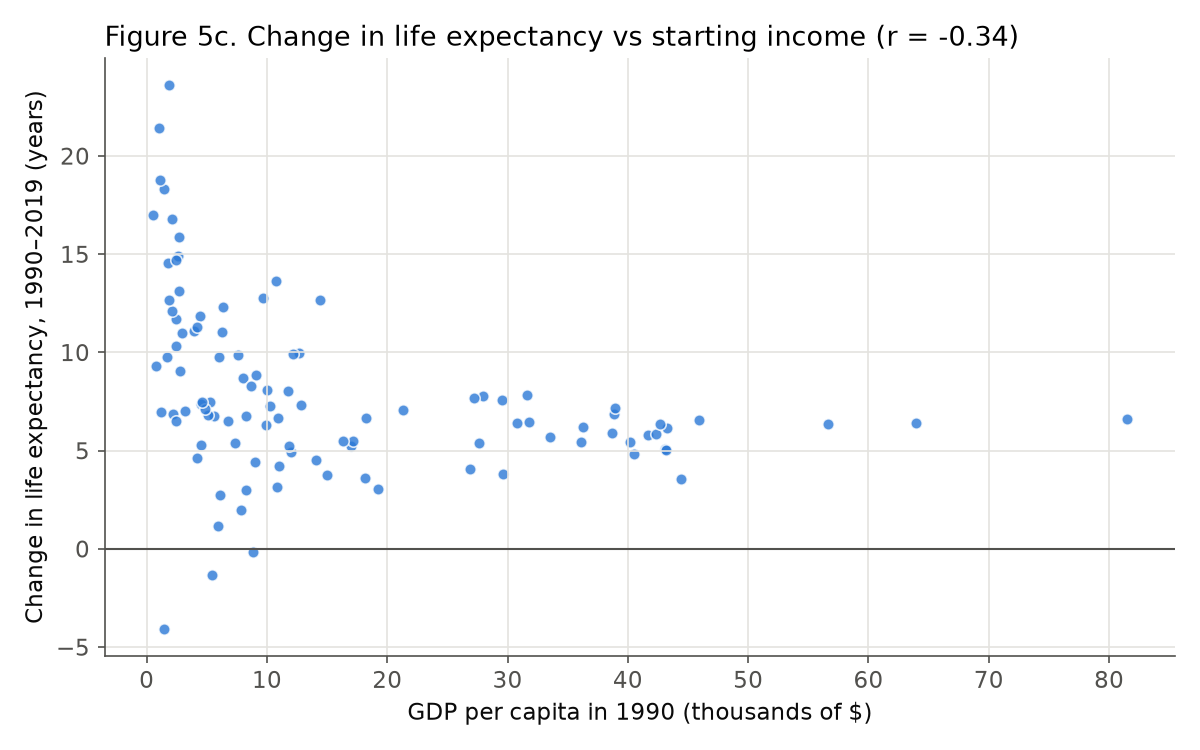
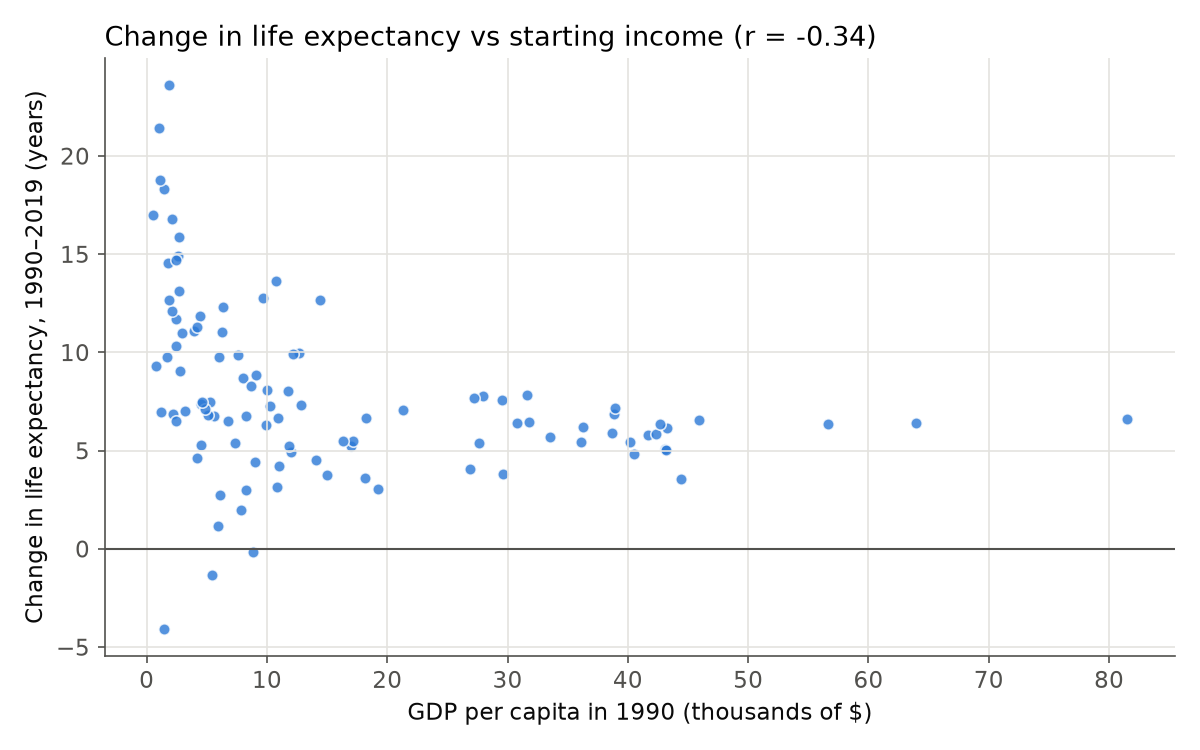
adjust chart and model titles

Changed region(s): [[0.0925, 0.0307, 0.8633, 0.0613]]

diff --git a/charts.py b/charts.py
@@ -35,7 +35,7 @@ for name, color in countries.items():
 ax.set_xlim(1990, 2025)
 ax.set_xlabel("Year")
 ax.set_ylabel("Life expectancy at birth (years)")
-ax.set_title("Figure 1. Contrasting life expectancy trajectories, 1990–2019", loc="left")
+ax.set_title("Contrasting life expectancy trajectories, 1990–2019", loc="left")
 ax.legend(frameon=False, loc="lower right")
 fig.tight_layout()
 fig.savefig("figures/fig1_trajectories.png")
@@ -56,7 +56,7 @@ ax.axhline(0, color=MUTED, linewidth=1)
 label_points(ax, "GDP1990_k", "dLE", highlight)
 ax.set_xlabel("GDP per capita in 1990 (thousands of 2021 int-$)")
 ax.set_ylabel("Change in life expectancy, 1990–2019 (years)")
-ax.set_title("Figure 2. Poorer countries gained the most life expectancy", loc="left")
+ax.set_title("Poorer countries gained the most life expectancy", loc="left")
 fig.tight_layout()
 fig.savefig("figures/fig2_gain_vs_start_income.png")
 
@@ -68,7 +68,7 @@ ax.axhline(0, color=MUTED, linewidth=1)
 label_points(ax, "LE_1990", "dLE", highlight)
 ax.set_xlabel("Life expectancy in 1990 (years)")
 ax.set_ylabel("Change in life expectancy, 1990–2019 (years)")
-ax.set_title("Figure 3. Countries that started lower caught up (convergence)", loc="left")
+ax.set_title("Countries that started lower caught up (convergence)", loc="left")
 fig.tight_layout()
 fig.savefig("figures/fig3_convergence.png")
 
@@ -80,7 +80,7 @@ ax.scatter(df["GDP_2019"] / 1000, df["LE_2019"], s=30, color=ORANGE, alpha=0.8,
            edgecolor="white", linewidth=0.8, label="2019")
 ax.set_xlabel("GDP per capita (thousands of 2021 int-$)")
 ax.set_ylabel("Life expectancy at birth (years)")
-ax.set_title("Figure 4. Life expectancy vs income: steep, then flat", loc="left")
+ax.set_title("Life expectancy vs income: steep, then flat", loc="left")
 ax.legend(frameon=False, loc="lower right")
 fig.tight_layout()
 fig.savefig("figures/fig4_preston_curve.png")
@@ -97,7 +97,7 @@ for letter, col, label, short in predictors:
     ax.set_xlabel(label)
     ax.set_ylabel("Change in life expectancy, 1990–2019 (years)")
     r = df[col].corr(df["dLE"])
-    ax.set_title(f"Figure 5{letter}. Change in life expectancy vs {short} (r = {r:.2f})", loc="left")
+    ax.set_title(f"Change in life expectancy vs {short} (r = {r:.2f})", loc="left")
     fig.tight_layout()
     fig.savefig(f"figures/fig5{letter}_{col}.png")
 
@@ -129,10 +129,95 @@ for group, color in group_colors.items():
 ax.set_xlim(1990, 2027)
 ax.set_xlabel("Year")
 ax.set_ylabel("Life expectancy at birth (years)")
-ax.set_title("Figure 6. Life expectancy by starting income group, 1990–2019", loc="left")
+ax.set_title("Life expectancy by starting income group, 1990–2019", loc="left")
 ax.legend(frameon=False, loc="lower right", title="1990 GDP per capita", fontsize=9)
 fig.tight_layout()
 fig.savefig("figures/fig6_trajectories_by_start_income.png")
 
 print("\nGroup average life expectancy:")
 print(traj.groupby(["Income group", "Year"], observed=True)["LE"].mean().unstack().loc[:, [1990, 2000, 2010, 2019]].round(1))
+
+
+#figures 7-10: how GDP and schooling changed for the figure 1 countries
+gdp = pd.read_csv("gdp-per-capita-worldbank/gdp-per-capita-worldbank.csv")
+gdp.columns = ["Entity", "Code", "Year", "GDP", "Region"]
+gdp = gdp[(gdp["Year"] >= 1990) & (gdp["Year"] <= 2019)]
+
+school = pd.read_csv("mean-years-of-schooling-long-run/mean-years-of-schooling-long-run.csv")
+school.columns = ["Entity", "Code", "Year", "School"]
+school = school[(school["Year"] >= 1990) & (school["Year"] <= 2015)]
+# add the interpolated 2019 value from build_dataset.py
+school_2019 = df[["Entity", "School_2019"]].rename(columns={"School_2019": "School"}).reset_index()
+school_2019["Year"] = 2019
+school = pd.concat([school, school_2019]).sort_values(["Code", "Year"])
+
+
+def end_labels(ax, data, xcol, ycol, shift):
+    for name, color in countries.items():
+        c = data[data["Entity"] == name]
+        ax.annotate(name, (c[xcol].iloc[-1], c[ycol].iloc[-1]),
+                    xytext=(5, shift.get(name, 0)), textcoords="offset points",
+                    va="center", color=INK)
+
+
+#figure 7: GDP per capita over time
+fig, ax = plt.subplots(figsize=(8, 5))
+for name, color in countries.items():
+    c = gdp[gdp["Entity"] == name]
+    ax.plot(c["Year"], c["GDP"] / 1000, color=color, linewidth=2, label=name)
+end_labels(ax, gdp.assign(GDP_k=gdp["GDP"] / 1000), "Year", "GDP_k",
+           {"Malawi": -6, "Lesotho": 6})
+ax.set_xlim(1990, 2025)
+ax.set_xlabel("Year")
+ax.set_ylabel("GDP per capita (thousands of 2021 int-$)")
+ax.set_title("GDP per capita, 1990–2019", loc="left")
+ax.legend(frameon=False, loc="upper left")
+fig.tight_layout()
+fig.savefig("figures/fig7_gdp_trajectories.png")
+
+#figure 8: schooling over time (5-year data + 2019 estimate)
+fig, ax = plt.subplots(figsize=(8, 5))
+for name, color in countries.items():
+    c = school[school["Entity"] == name]
+    ax.plot(c["Year"], c["School"], color=color, linewidth=2, marker="o",
+            markersize=5, label=name)
+end_labels(ax, school, "Year", "School", {})
+ax.set_xlim(1990, 2025)
+ax.set_xlabel("Year")
+ax.set_ylabel("Average years of schooling (ages 15–64)")
+ax.set_title("Average years of schooling, 1990–2019", loc="left")
+ax.legend(frameon=False, loc="upper left", bbox_to_anchor=(0, 0.85))
+ax.annotate("Data every 5 years; 2019 estimated from 2015 and 2020",
+            (0.99, 0.02), xycoords="axes fraction", ha="right", fontsize=9, color=MUTED)
+fig.tight_layout()
+fig.savefig("figures/fig8_schooling_trajectories.png")
+
+#figures 9-10: each country's path, 1990 (circle) to 2019 (arrow)
+def path_chart(data, xcol, xlabel, title, filename, xscale=1):
+    fig, ax = plt.subplots(figsize=(8, 5.5))
+    for name, color in countries.items():
+        c = data[data["Entity"] == name].merge(le[["Code", "Year", "LE"]], on=["Code", "Year"])
+        x = c[xcol] / xscale
+        ax.plot(x, c["LE"], color=color, linewidth=2, label=name)
+        ax.scatter(x.iloc[0], c["LE"].iloc[0], s=50, color=color,
+                   edgecolor="white", linewidth=1.5, zorder=3)
+        ax.annotate("", xy=(x.iloc[-1], c["LE"].iloc[-1]),
+                    xytext=(x.iloc[-2], c["LE"].iloc[-2]),
+                    arrowprops=dict(arrowstyle="-|>", color=color, lw=2))
+        ax.annotate(f"{name} 1990", (x.iloc[0], c["LE"].iloc[0]), xytext=(6, -10),
+                    textcoords="offset points", fontsize=9, color=MUTED)
+        ax.annotate(f"{name} 2019", (x.iloc[-1], c["LE"].iloc[-1]), xytext=(6, 4),
+                    textcoords="offset points", fontsize=9, color=INK)
+    ax.set_xlabel(xlabel)
+    ax.set_ylabel("Life expectancy at birth (years)")
+    ax.set_title(title, loc="left")
+    ax.legend(frameon=False, loc="lower right")
+    fig.tight_layout()
+    fig.savefig(filename)
+
+path_chart(gdp, "GDP", "GDP per capita (thousands of 2021 int-$)",
+           "Path of life expectancy vs income, 1990 → 2019",
+           "figures/fig9_path_le_vs_gdp.png", xscale=1000)
+path_chart(school, "School", "Average years of schooling (ages 15–64)",
+           "Path of life expectancy vs schooling, 1990 → 2019",
+           "figures/fig10_path_le_vs_schooling.png")

diff --git a/models.py b/models.py
@@ -66,7 +66,7 @@ for name in ["Model 3", "Model 3b"]:
                     textcoords="offset points", fontsize=9, color=MUTED)
     ax.set_xlabel("Fitted value (predicted change in life expectancy)")
     ax.set_ylabel("Residual (years)")
-    ax.set_title(f"{name}: residuals vs fitted", loc="left")
+    ax.set_title("Residuals vs fitted", loc="left")
     fig.tight_layout()
     fig.savefig(f"figures/resid_{slug}_vs_fitted.png")
 
@@ -75,7 +75,7 @@ for name in ["Model 3", "Model 3b"]:
     ax.hist(df["resid"], bins=20, color=BLUE, edgecolor="white")
     ax.set_xlabel("Residual (years)")
     ax.set_ylabel("Number of countries")
-    ax.set_title(f"{name}: distribution of residuals", loc="left")
+    ax.set_title("Distribution of residuals", loc="left")
     fig.tight_layout()
     fig.savefig(f"figures/resid_{slug}_hist.png")
 
@@ -113,7 +113,7 @@ for x, other, label, slug, short, other_short in panels:
     ax.set_xlabel(label)
     r = df[x].corr(df["dLE"])
     ax.set_ylabel("Change in life expectancy (years)")
-    fig.suptitle(f"Model 3b: change in life expectancy vs {short}", x=0.01, ha="left")
+    fig.suptitle(f"Change in life expectancy vs {short}", x=0.01, ha="left")
     ax.set_title(f"slope = {m.params[x]:.3f} per unit, r = {r:.2f}, r² = {r**2:.2f}, p = {m.pvalues[x]:.3f}\n"
                  f"{other_short} held at its average; band = 95% CI",
                  loc="left", fontsize=10, color=MUTED)
@@ -135,7 +135,7 @@ ax.set_xlim(lims)
 ax.set_ylim(lims)
 ax.set_xlabel("Predicted change in life expectancy (years)")
 ax.set_ylabel("Actual change in life expectancy (years)")
-ax.set_title(f"Model 3b: actual vs predicted (R² = {m.rsquared:.3f})", loc="left")
+ax.set_title(f"Actual vs predicted (R² = {m.rsquared:.3f})", loc="left")
 ax.legend(frameon=False, loc="upper left")
 fig.tight_layout()
 fig.savefig("figures/model3b_actual_vs_predicted.png")
